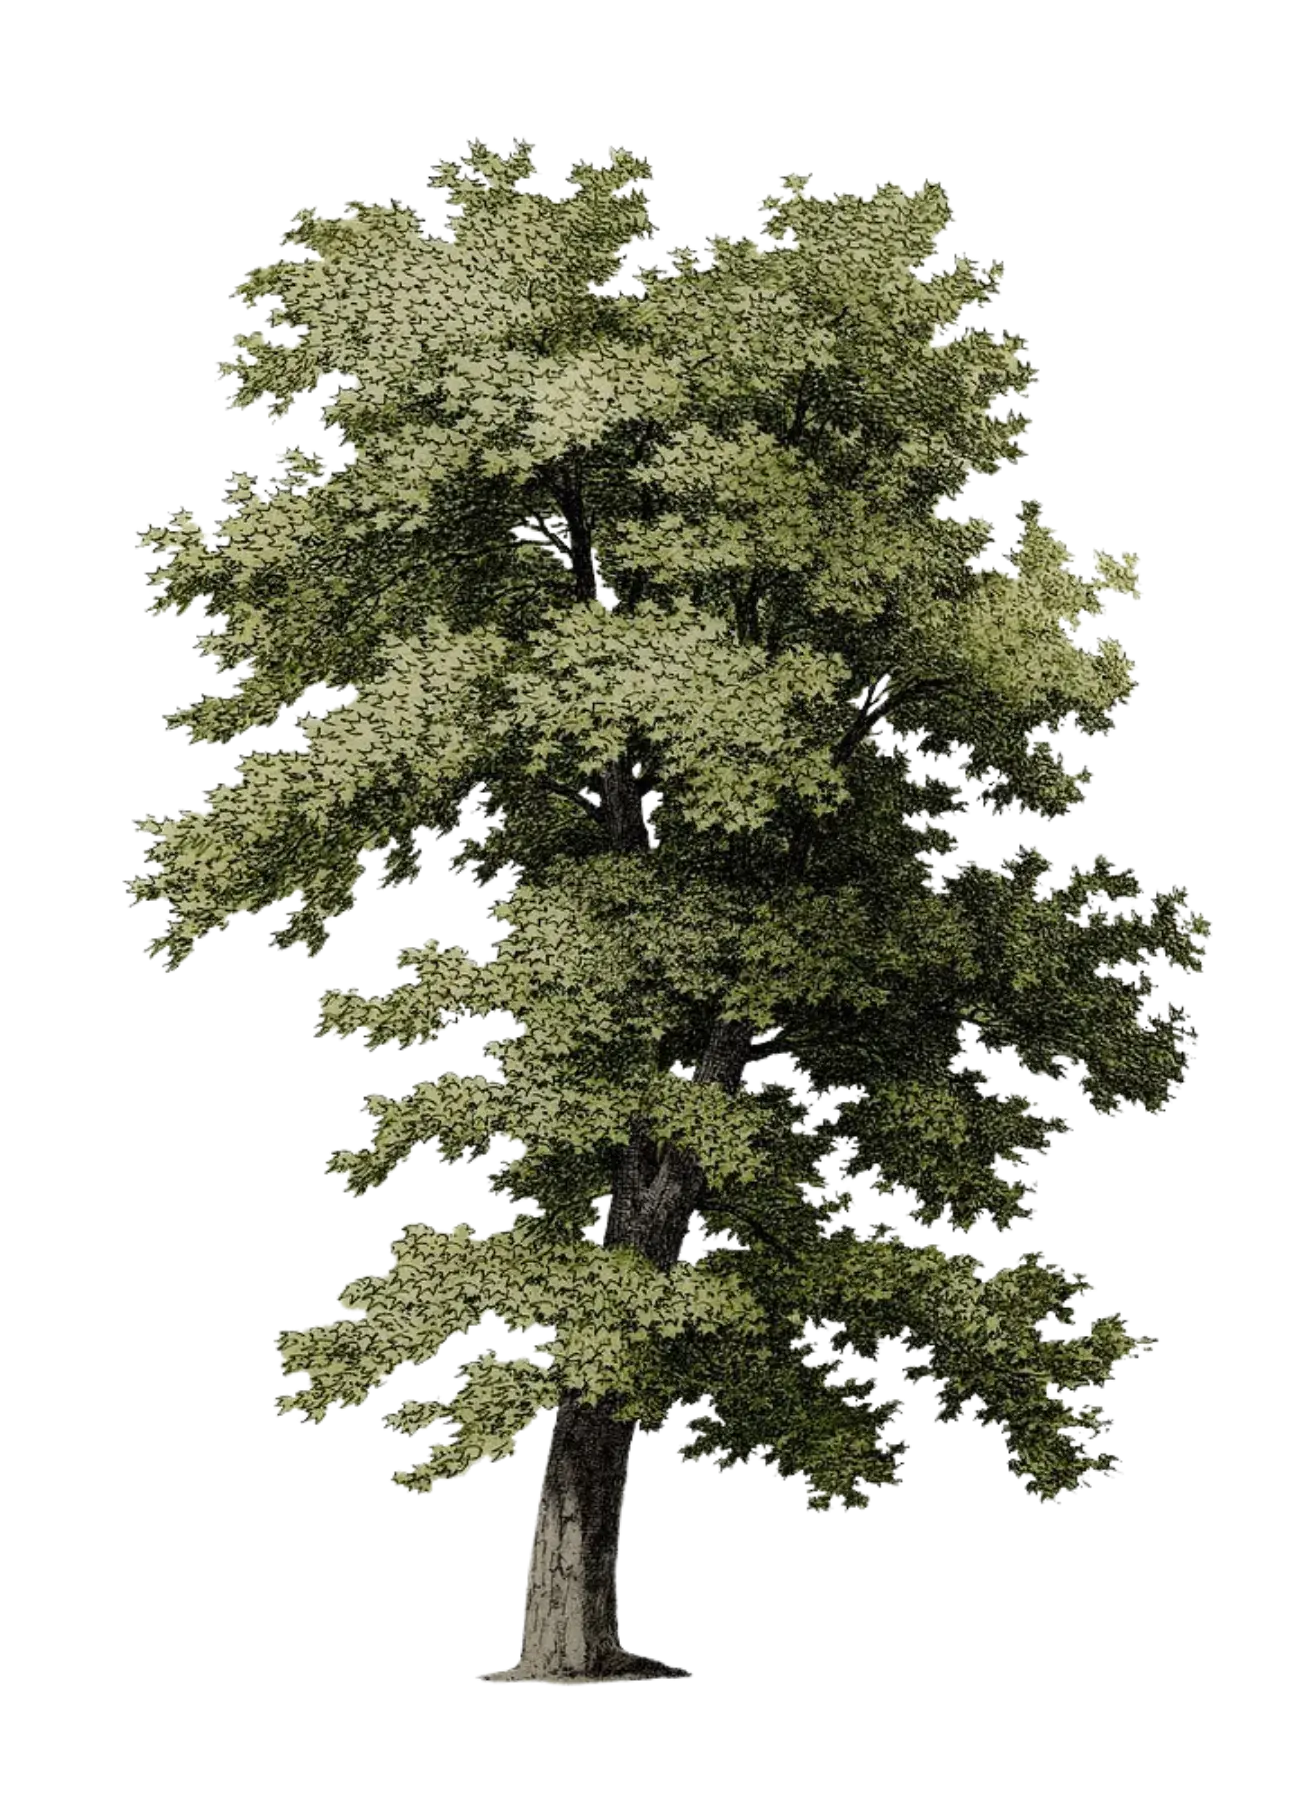
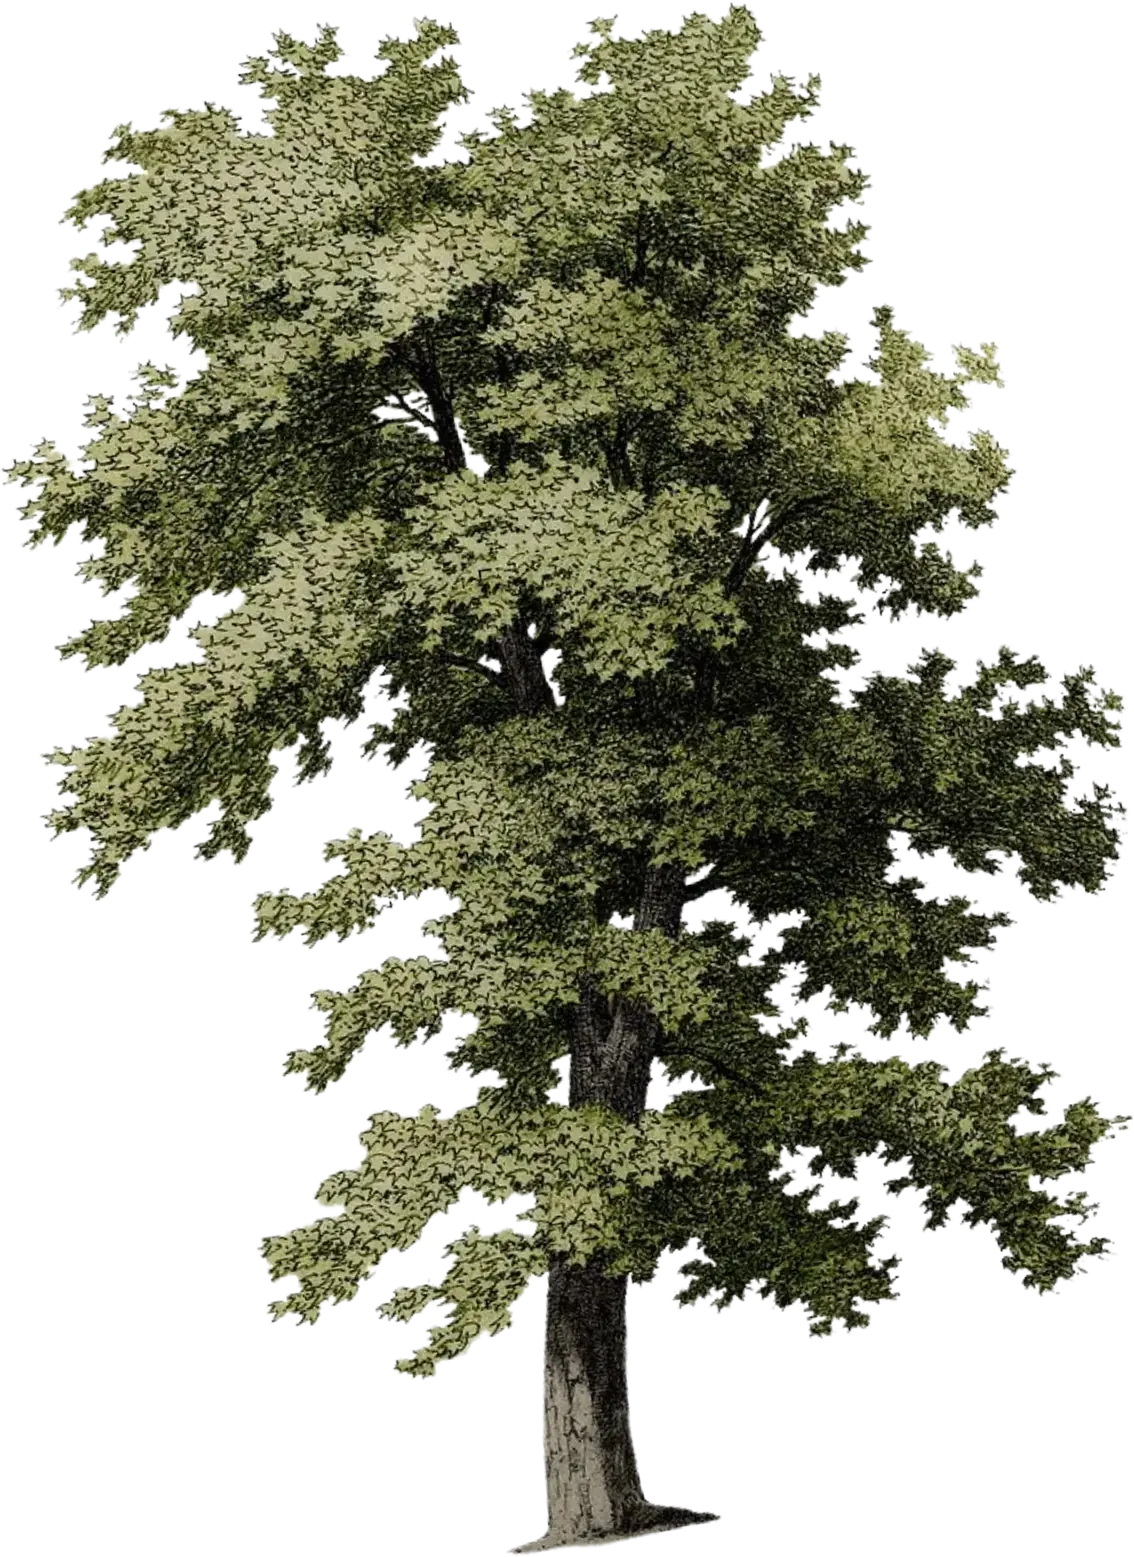
«Туманный лес»: деревья на обложке выпрямлены
На исходной картинке дерева ствол завален вправо на ~9°, и при сомкнутых
деревьях это было видно. tree.webp повёрнут вокруг основания ствола, ствол
теперь вертикальный; места деревьев пересчитаны так, чтобы голый ствол
оставался ниже обложки, а кроны обрамляли имена как раньше. Превью
каталога пересобрано (?v=3).

diff --git a/frontend/public/invite/forest/styles.css b/frontend/public/invite/forest/styles.css
@@ -148,19 +148,21 @@ img { max-width: none; }
 }
 /* Деревья в 1,4 раза крупнее, чем в макете: голый ствол ушёл ниже обложки
    (под край бумаги) и за края экрана, кроны обрамляют имена там же, где
-   в макете. Деревья всегда стоят прямо — только разъезжаются в стороны. */
+   в макете. На исходной картинке ствол завален вправо на ~9°, поэтому
+   tree.webp выпрямлен (повёрнут вокруг основания ствола). Деревья всегда
+   стоят прямо — только разъезжаются в стороны. */
 .hero__tree {
   position: absolute; display: block; height: auto;
   pointer-events: none;
   will-change: transform;
 }
 .hero__tree--l {
-  left: calc(-1010 * var(--u)); top: calc(28 * var(--u));
-  width: calc(1839.6 * var(--u));
+  left: calc(-863.5 * var(--u)); top: calc(224 * var(--u));
+  width: calc(1587.6 * var(--u));
 }
 .hero__tree--r {
-  left: calc(601 * var(--u)); top: calc(-59 * var(--u));
-  width: calc(1917.1 * var(--u));
+  left: calc(765.4 * var(--u)); top: calc(144.9 * var(--u));
+  width: calc(1654.5 * var(--u));
 }
 
 /* Имена: три строки лесенкой, как в макете (жених левее, невеста правее) */

diff --git a/frontend/src/lib/constants.ts b/frontend/src/lib/constants.ts
@@ -83,7 +83,7 @@ const HANDMADE_TEMPLATES = [
     description: 'Туманный лес на обложке: деревья расступаются, и из-за них появляются имена пары. Фото в винтажной овальной рамке, календарь дня с сердцем, беседка в розах и карта, расписание с жёлудем на треке, таймер, дресс-код мазками кисти и анкета для гостей.',
     tags: ['Лес', 'Природа', 'Винтаж', 'Зелёный', 'Анимация'],
     colors: ['#f7f2ed', '#4a552d', '#a0a496'],
-    preview: '/invite/forest/assets/preview.jpg?v=2',
+    preview: '/invite/forest/assets/preview.jpg?v=3',
     defaultCover: '/invite/forest/assets/album-1.jpg',
     defaultGallery: [] as string[],
     sampleBride: 'Мария',

diff --git a/frontend/src/components/ForestTemplate.tsx b/frontend/src/components/ForestTemplate.tsx
@@ -124,7 +124,7 @@ export default function ForestTemplate({ data, apiBase, fullPage, slug, editing 
 
   return (
     <div style={{ position: 'relative', width: '100%', height: '100%', overflow: 'hidden', background: '#f7f2ed', containerType: 'inline-size' }}>
-      <img src="/invite/forest/assets/preview.jpg?v=2" alt=""
+      <img src="/invite/forest/assets/preview.jpg?v=3" alt=""
         style={{ position: 'absolute', left: 0, top: 0, width: '100%', height: 'auto', display: 'block' }} />
       <p style={line(543 + (248 - fs) * 0.72, longest > 7 ? -40 : -97, fs)}>{groom}</p>
       <p style={line(823, -76, 129)}>и</p>
